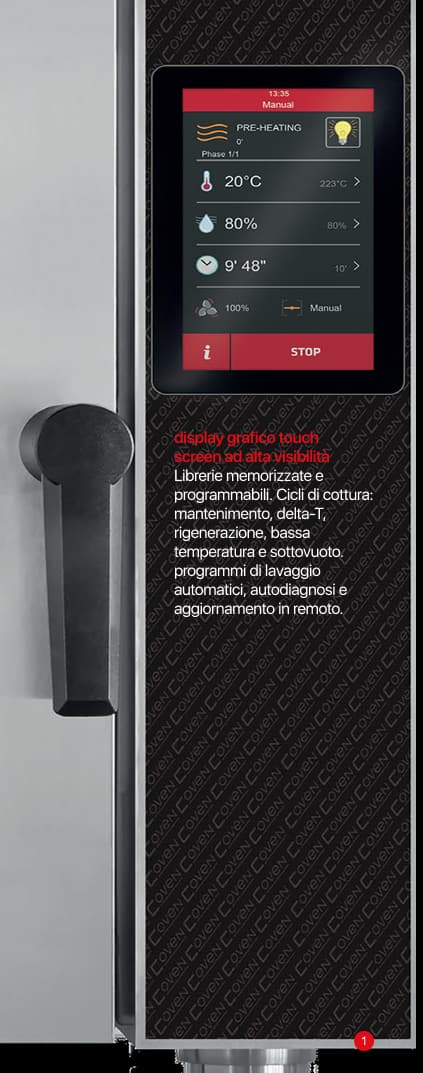
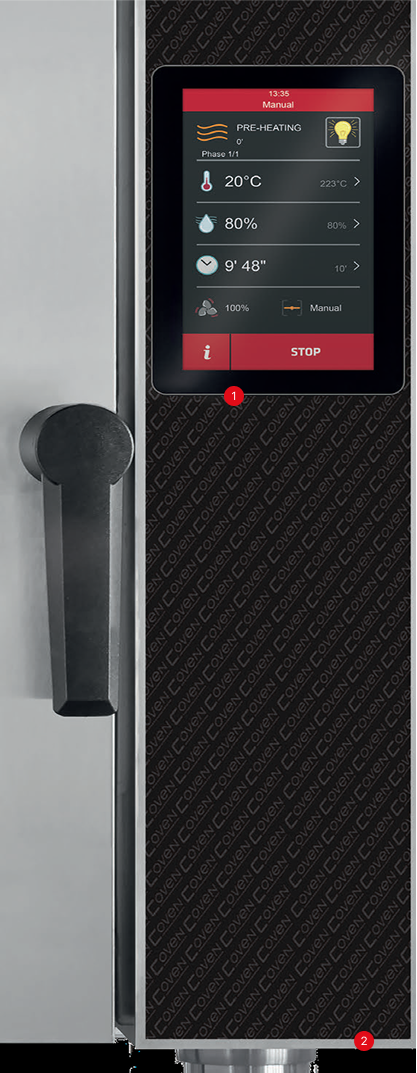
fix mobile

diff --git a/src/routes/SteadyCook/Touch.svelte b/src/routes/SteadyCook/Touch.svelte
@@ -113,7 +113,7 @@
 </section>
 
 <ContainerGrey ifTitle={"Perfezione senza sforzo con tecnologia avanzata"} text={"Nella gastronomia di alta classe, la precisione è tutto. Steady Cook Touch porta ogni piatto a un livello superiore, garantendo texture perfette, sapori definiti e una cottura uniforme ogni volta. Progettato per chef e ristoranti esigenti, offre automazione intelligente e controllo totale, ottimizzando il tempo senza compromettere la qualità. Quando la creatività incontra la tecnologia, i risultati sono straordinari. Scopri come Steady Cook Touch può trasformare la tua cucina."}>
-    <button id="btnPrimary-black">Scopri di più</button>
+    
 </ContainerGrey>
 
 <section class="padding-bt carrousel-container">
@@ -125,6 +125,14 @@
         <img src={imageDetails} alt="" srcset="">
     </div>
     <div class="card-detail-container">
+        <article>
+           <div class="number">1</div>
+            <p><span>display grafico touch screen ad alta visibilità</span></p>
+        </article>
+        <article>
+            <p>Librerie memorizzate e programmabili. Cicli di cottura: mantenimento, delta-T, rigenerazione, bassa temperatura e sottovuoto. programmi di lavaggio automatici, autodiagnosi e aggiornamento in remoto.</p>
+        </article>
+        <br>
         <article>
             <img src="../public/details/steadycook/touch/touch2.jpg" alt="">
             <div>
@@ -156,10 +164,9 @@
                     momento</p>
             </div>
         </article>
+
         <article>
-           <div class="number">
-                1
-           </div>
+            <div class="number">2</div>
             <p>porta <span>USB</span></p>
         </article>
     </div>    
@@ -190,10 +197,12 @@
         justify-content: start;
         align-items: start;
         gap: 10px;
+        margin-bottom: 2vh;
         width: 400px;
     }
     .card-detail-container article img {
         margin-bottom: 2vh;
+        width: 150px;
     }
     .card-detail-container article p {
         font-family: 'sf-ui-display-regular';
@@ -224,5 +233,17 @@
         font-size: 11.72px;
         line-height: 20px;
         letter-spacing: -2%;
+    }
+    @media (max-width: 767px) {
+        .details-container {
+            display: block;
+        }
+        .details-container > .image-details-container img {
+            width: 100%;
+            margin-bottom: 2vh;
+        }
+        .card-detail-container article img {
+            width: 100%;
+        }
     }
 </style>

diff --git a/src/routes/Home.svelte b/src/routes/Home.svelte
@@ -102,13 +102,19 @@
     <br><br>
     <main>
         <CardProductMain image={cardProduct1} title={'Stilema'} text={"La nuova generazione di forni con la più alta tecnologia."}>
-            <button id="btnPrimary-outline">Scopri di più</button>
+            <a href="#/styleme">
+                <button id="btnPrimary-outline">Scopri di più</button>
+            </a>
         </CardProductMain>
         <CardProductMain image={cardProduct2} title={'Steady Cook Touch'} text={"Forni di alta qualità per l'industria della ristorazione."}>
-            <button id="btnPrimary-outline">Scopri di più</button>
+            <a href="#/steady-cook-touch">
+                <button id="btnPrimary-outline">Scopri di più</button>
+            </a>
         </CardProductMain>
         <CardProductMain image={cardProduct3} title={'Steady Cook Visual'} text={"Forni di alta qualità per l'industria della ristorazione."}>
-            <button id="btnPrimary-outline">Scopri di più</button>
+            <a href="#/steady-cook-visual">
+                <button id="btnPrimary-outline">Scopri di più</button>
+            </a>
         </CardProductMain>
         <CardProductMain image={cardProduct4} title={'Master Delight Visual'} text={"Forni di alta qualità per l'industria della pasticceria e panificazione."}>
             <button id="btnPrimary-outline">Scopri di più</button>

diff --git a/src/components/Container-characteristics.svelte b/src/components/Container-characteristics.svelte
@@ -3,6 +3,14 @@
     export let text;
     export let charact;
     export let tags;
+
+    function scrollAction(node) {
+        node.addEventListener('click', e => {
+        e.preventDefault();
+        const targetId = node.getAttribute('href').replace('#', '');
+        document.getElementById(targetId)?.scrollIntoView({ behavior: 'smooth' });
+    });
+  }
 </script>
 
 <article>
@@ -26,7 +34,7 @@
 
         <div class="elements">    
             {#each tags as t}
-            <button id="btnPrimary-black">{t.tag}</button>
+                <button id="btnPrimary-black" href="#models" use:scrollAction>{t.tag}</button>
             {/each} 
         </div>
     </main>

diff --git a/src/routes/SteadyCook/Visual.svelte b/src/routes/SteadyCook/Visual.svelte
@@ -129,7 +129,6 @@
 </section>
 
 <ContainerGrey ifTitle={"Precisione e innovazione in ogni piatto"} text={"Con un design sofisticato e una tecnologia avanzata, Steady Cook Visual offre un controllo intuitivo e risultati costanti in ogni piatto. Ideale per chef e ristoranti che desiderano ottimizzare i tempi senza compromettere la qualità. Progettato per valorizzare la tua creatività ed efficienza. Una tecnologia che fa la differenza, perché in cucina ogni dettaglio conta.\nScopri come Steady Cook Visual può trasformare la tua cucina"}>
-    <button id="btnPrimary-black">Scopri di più</button>
 </ContainerGrey>
 
 <section class="padding-bt carrousel-container">

diff --git a/src/components/CustomizedTools.svelte b/src/components/CustomizedTools.svelte
@@ -5,7 +5,9 @@
 <section>
     <div class="padding-lr padding-bt" style="background-image: url({img})">
         <h2>Fatto su misura. Strumenti personalizzati per risultati perfetti</h2>
-        <button id="btnPrimary-black">Scopri di più</button>
+        <a href="#/accessories">
+            <button id="btnPrimary-black">Scopri di più</button>
+        </a>
     </div>
 </section>
 
@@ -28,7 +30,7 @@
             text-align: start;
             background-size: contain;
             background-repeat: no-repeat;
-            height: 60vh;
+            height: 75vh;
         }
     }
 </style>

diff --git a/src/components/Nav.svelte b/src/components/Nav.svelte
@@ -54,7 +54,7 @@
 
             <!-- Menú de navegación -->
             <div class="links" class:mobile-open={mobileMenuOpen}>
-                <a href="#/" class:selected={$currentPath === '/'} on:click={closeMenus}>Home</a>
+                <a href="/" class:selected={$currentPath === '/'} on:click={closeMenus}>Home</a>
                 <a href="#/who-we-are" class:selected={$currentPath === '/who-we-are'} on:click={closeMenus}>Chi siamo</a>
 
                 <!-- Productos con submenu -->

diff --git a/src/routes/WhoWeAre.svelte b/src/routes/WhoWeAre.svelte
@@ -27,7 +27,6 @@
 </Hero>
 
 <ContainerGrey ifSubitutle={'Our mission'} ifTitle={'Eleva ogni esperienza gastronomica'}>
-    <br>
     <div class="cards-container">
         <CardTextImage src={image1} title={"Innovazione senza limiti"} 
             text={"Continuando a guidare il mercato dei forni professionali attraverso una ricerca costante e lo sviluppo di tecnologie esclusive che garantiscono prestazioni eccezionali e il 'calore ideale' in ogni cucina."}>

diff --git a/src/components/SectionModels.svelte b/src/components/SectionModels.svelte
@@ -3,8 +3,8 @@
 </script>
 
 
-<section class="padding-lr padding-bt">
-        <div>
+<section class="padding-lr padding-bt" id="x">
+        <div id="models">
             <h2>Modelli</h2>
         </div>
         <br><br>
@@ -148,6 +148,7 @@
         }
         article header img {
             margin-top: 3vh;
+            width: 60%;
         }
         article header, article main {
             display: block;

diff --git a/src/routes/MasterDelight.svelte b/src/routes/MasterDelight.svelte
@@ -78,4 +78,18 @@
         margin-bottom: 1vh;
         width: 50%;
     }
+
+    @media (max-width: 767px) {
+        .section-lines {
+            display: block;
+        }
+
+        .section-lines > * {
+            margin-bottom: 2vh;
+        }
+
+        .p-text {
+            width: 100%;
+        }
+    }
 </style>

diff --git a/src/App.svelte b/src/App.svelte
@@ -34,10 +34,15 @@
     '/about': About,
   };
 
+  // Scroll to top when a new route is loaded
+  function scrollToTop() {
+    window.scrollTo(0, 0);
+  }
+  
 </script>
 
 <Nav></Nav>
 
-<Router {routes} />
+<Router {routes} on:routeLoaded={scrollToTop}/>
 
 <Footer/>

diff --git a/src/components/container-grey.svelte b/src/components/container-grey.svelte
@@ -25,7 +25,7 @@
         color: #5B5B5B;
         width: 60%;
         margin: 0 auto;
-        padding: 7vh 0vh;
+        padding: 2vh 0vh;
     }
 
     @media (max-width: 767px) {

diff --git a/src/components/Gallery.svelte b/src/components/Gallery.svelte
@@ -39,7 +39,7 @@
             gap: 20px;
         }
         img {
-            width: 150px;
+            width: 45%;
         }
     }
 
